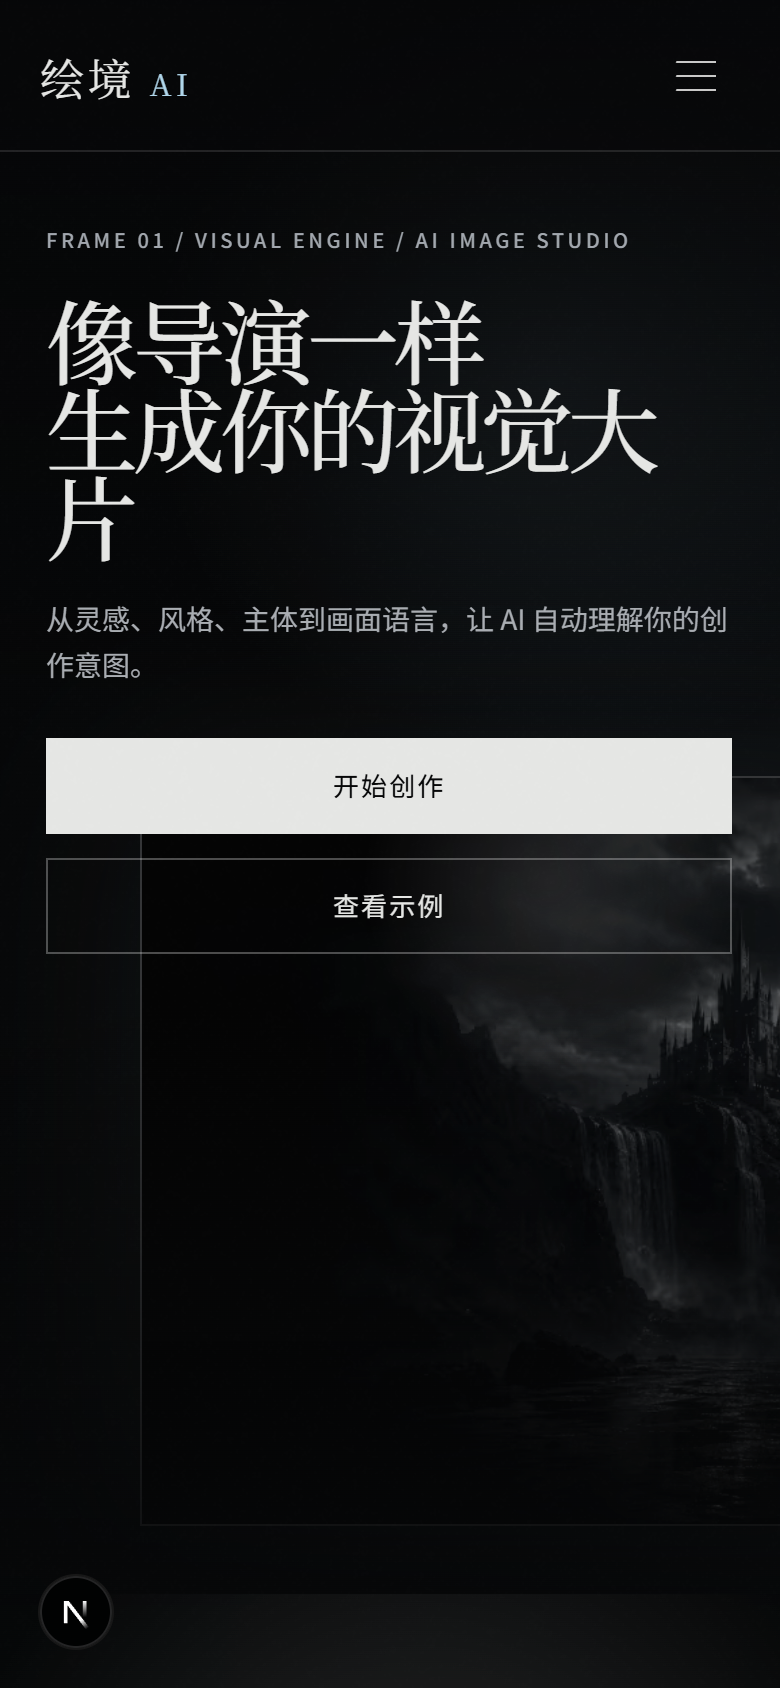
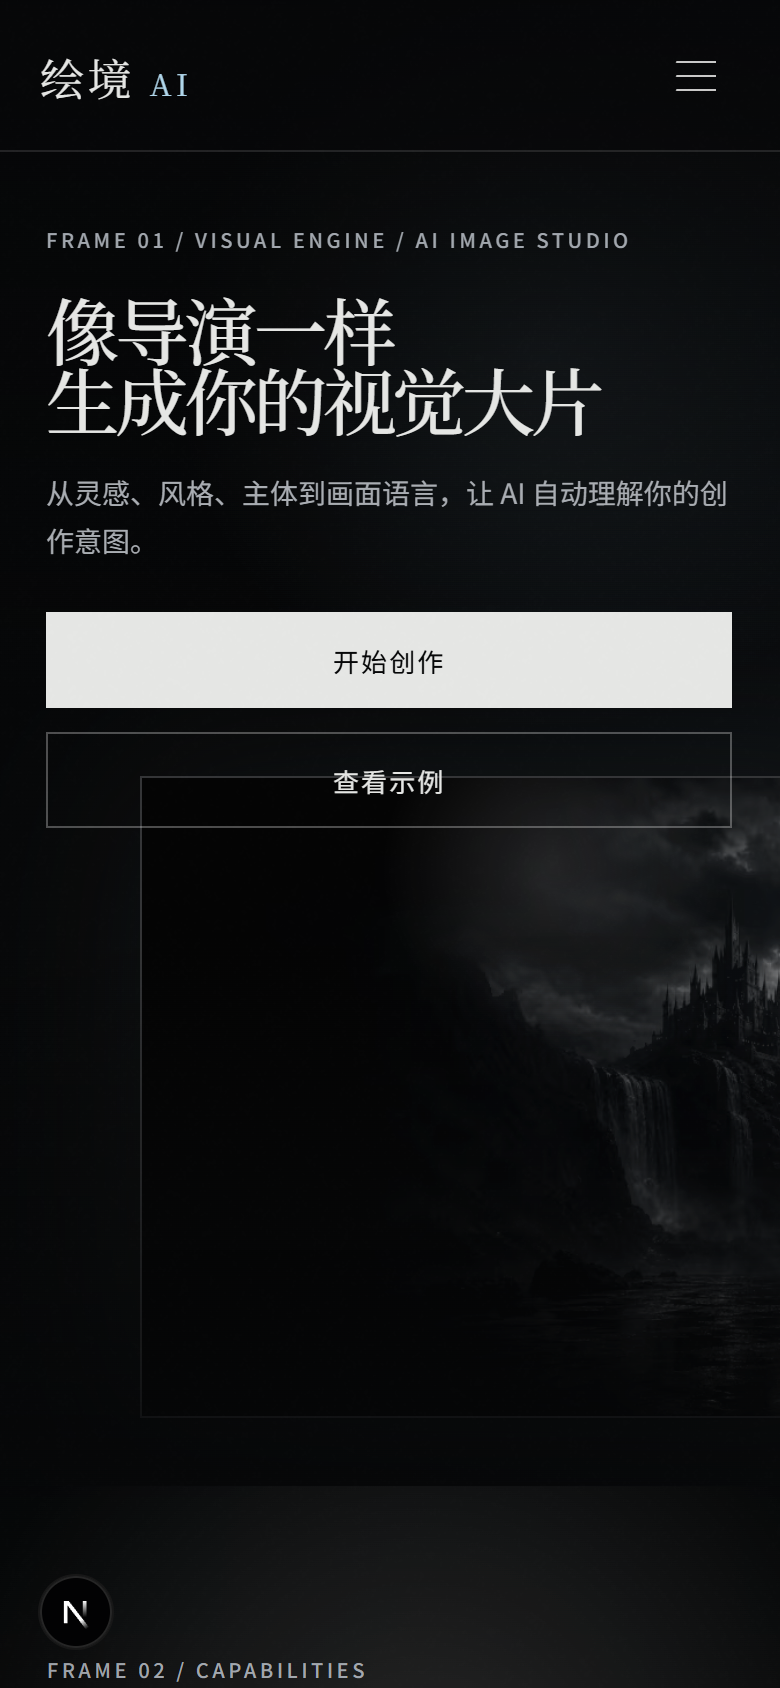
fix: prevent mobile hero title orphan

diff --git a/tests/visual-density.test.ts b/tests/visual-density.test.ts
@@ -14,3 +14,11 @@ it("keeps the landing page rhythm compact enough to match the P1 poster referenc
   expect(css).toContain("min-height: clamp(540px, 68svh, 660px);")
   expect(css).toContain("min-height: clamp(480px, 64svh, 620px);")
 })
+
+it("keeps the mobile hero title from orphaning the final character", () => {
+  expect(css).toContain(".hero-title-line--wide {\n  white-space: nowrap;\n}")
+  expect(css).not.toContain(
+    ".hero-title-line--wide {\n    white-space: normal;\n  }",
+  )
+  expect(css).toContain("font-size: clamp(34px, 9.4vw, 42px);")
+})

diff --git a/app/globals.css b/app/globals.css
@@ -1534,11 +1534,7 @@ button {
   }
 
   .hero-copy h1 {
-    font-size: clamp(39px, 11.8vw, 52px);
-  }
-
-  .hero-title-line--wide {
-    white-space: normal;
+    font-size: clamp(34px, 9.4vw, 42px);
   }
 
   .hero-description {

diff --git a/design-qa.md b/design-qa.md
@@ -49,7 +49,7 @@ No P0/P1/P2 issues remain.
 - Added a regression expectation in `tests/components/page-sections.test.tsx` so the final CTA keeps this controlled two-line structure.
 - Tightened the P1 visual density across desktop and mobile by reducing oversized section padding, headline margins, card heights, process card rhythm, gallery rows, membership card height, and final CTA whitespace.
 - Added `tests/visual-density.test.ts` as a compact poster-rhythm contract so the page does not regress to overly large whitespace.
-- Fixed the hero title line break by replacing browser-dependent `<br />` wrapping with two explicit `hero-title-line` spans and desktop no-orphan whitespace handling.
+- Fixed the hero title line break by replacing browser-dependent `<br />` wrapping with two explicit `hero-title-line` spans and no-orphan whitespace handling; re-captured mobile Hero after review feedback confirmed the final character no longer wraps alone.
 - Re-captured desktop full-page, desktop hero, mobile full-page, mobile hero, mobile bottom, and comparison evidence after the P1 density patch.
 
 ## Open Questions
@@ -65,6 +65,7 @@ No P0/P1/P2 issues remain.
 - [x] Upgrade dialog evidence captured and reviewed.
 - [x] P2 mobile final CTA wrapping issue fixed and re-verified.
 - [x] P1 text/whitespace density feedback addressed and re-verified against the reference comparison.
+- [x] P1 mobile Hero orphan-character feedback fixed and re-verified in `.design-qa/implementation-mobile-hero.png`.
 
 ## Follow-up Polish
 